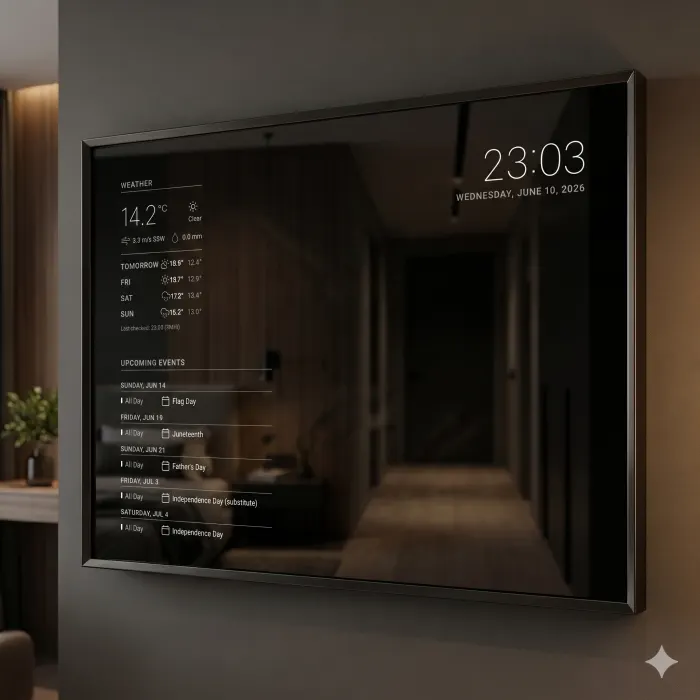
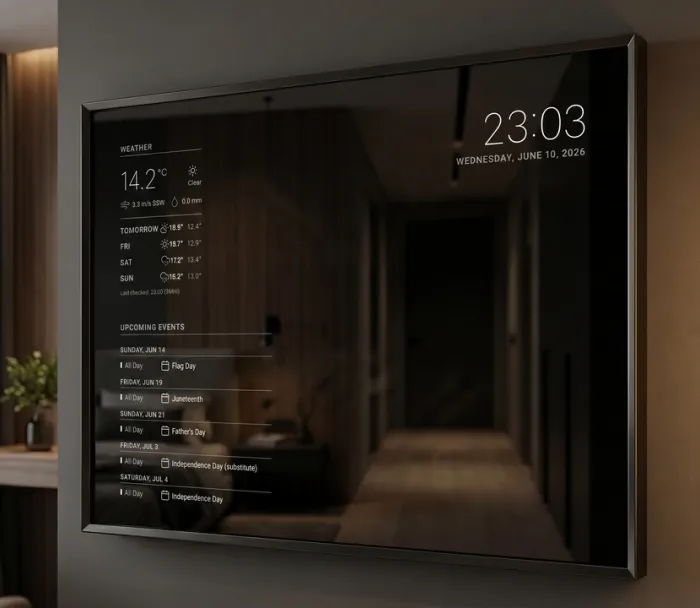
docs(site): the new concept picture, without the Gemini mark
Claude-Session: https://claude.ai/code/session_01PmpmuMJby8FHBqLLbAhRWN

diff --git a/docs/index.html b/docs/index.html
@@ -11,8 +11,8 @@
 <meta property="og:title" content="MirrorDash – Smart mirror software for Raspberry Pi">
 <meta property="og:description" content="A calm display for your hallway mirror: the time, the weather and your day, glowing through the glass. Free and open source.">
 <meta property="og:image" content="https://mirrordash.net/og.jpg">
-<meta property="og:image:width" content="1200">
-<meta property="og:image:height" content="630">
+<meta property="og:image:width" content="830">
+<meta property="og:image:height" content="436">
 <meta name="twitter:card" content="summary_large_image">
 <script type="application/ld+json">
 {"@context": "https://schema.org", "@type": "SoftwareApplication", "name": "MirrorDash",
@@ -31,7 +31,7 @@ h1 { font-size: clamp(44px, 9vw, 88px); font-weight: 100; letter-spacing: -.02em
 .lede strong { color: var(--white); font-weight: 400; }
 .ctas { display: flex; gap: 12px; flex-wrap: wrap; justify-content: center; margin-top: 6px; }
 .status { font-size: 13px; color: var(--gray); }
-.hero-img img { width: 100%; height: auto; display: block; border-radius: 6px; aspect-ratio: 1; object-fit: cover; max-height: 640px; }
+.hero-img img { width: 100%; height: auto; display: block; border-radius: 6px; aspect-ratio: 830 / 720; object-fit: cover; max-height: 720px; }
 .rows { padding-block: 96px 40px; display: grid; gap: 96px; }
 .row { display: grid; grid-template-columns: repeat(auto-fit, minmax(min(300px, 100%), 1fr)); gap: 40px 64px; align-items: center; }
 .row > * { min-width: 0; }
@@ -67,7 +67,7 @@ a.tile:hover { border-color: var(--charcoal); }
 </header>
 
 <main>
-  <div class="hero-img wrap gutter"><img src="concept.webp" srcset="concept-700.webp 700w, concept.webp 1200w" sizes="(max-width: 1100px) 100vw, 1068px" fetchpriority="high" width="1200" height="1200" alt="A smart mirror: a framed two-way mirror in a hallway, with the weather, a calendar and the time shining through the glass"></div>
+  <div class="hero-img wrap gutter"><img src="concept.webp" srcset="concept-700.webp 700w, concept.webp 830w" sizes="(max-width: 1100px) 100vw, 1068px" fetchpriority="high" width="830" height="720" alt="A smart mirror: a framed two-way mirror in a hallway, with the weather, a calendar and the time shining through the glass"></div>
 
   <div class="rows wrap gutter">
     <section class="row">

diff --git a/.agents/rules/documentation.md b/.agents/rules/documentation.md
@@ -20,3 +20,5 @@ trigger: always_on
 | `.claude/skills/*/SKILL.md` | How a new module or a release is made changes |
 
 After changing any doc, heading or doc link (also in admin templates and `docs/`), run `uv run pytest -q tests/test_docs.py`: it checks that every `#anchor` lands on a heading, every relative link on a file, and every admin path (*Settings → …*) on a label.
+
+The website's pictures are copies, not links: after changing `mirrordash_concept.png`, remake them with `cwebp -q 82 mirrordash_concept.png -o docs/concept.webp`, `cwebp -q 80 -resize 700 0 mirrordash_concept.png -o docs/concept-700.webp` and a 1.9:1 crop to `docs/og.jpg` (`convert … -crop`), and update the sizes in `docs/index.html`.
